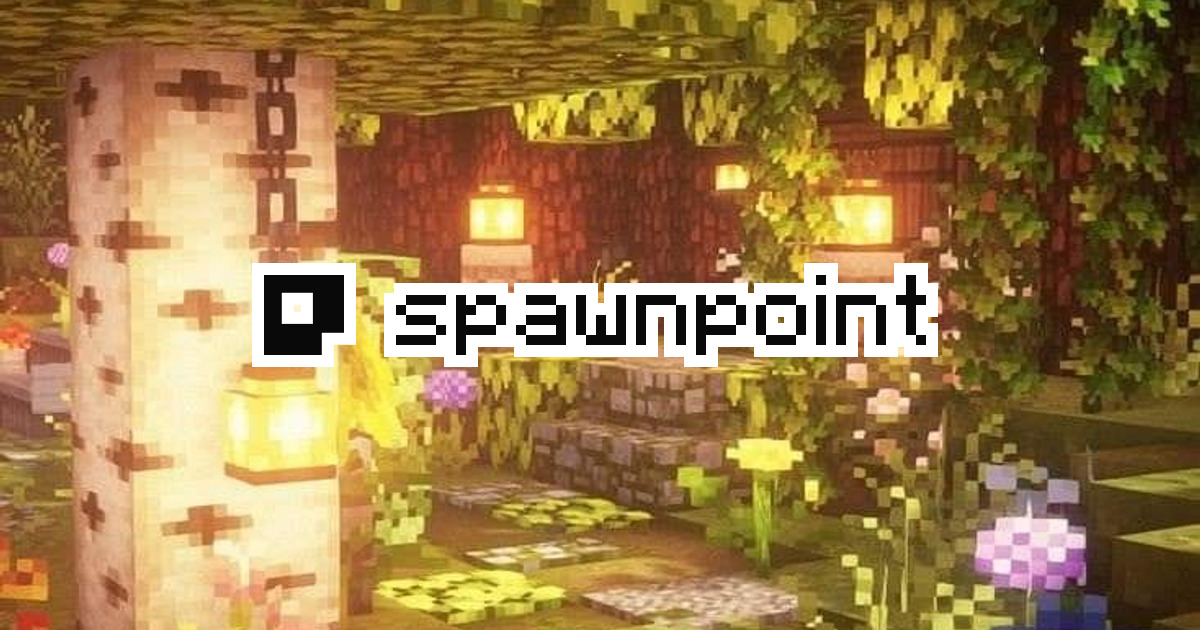
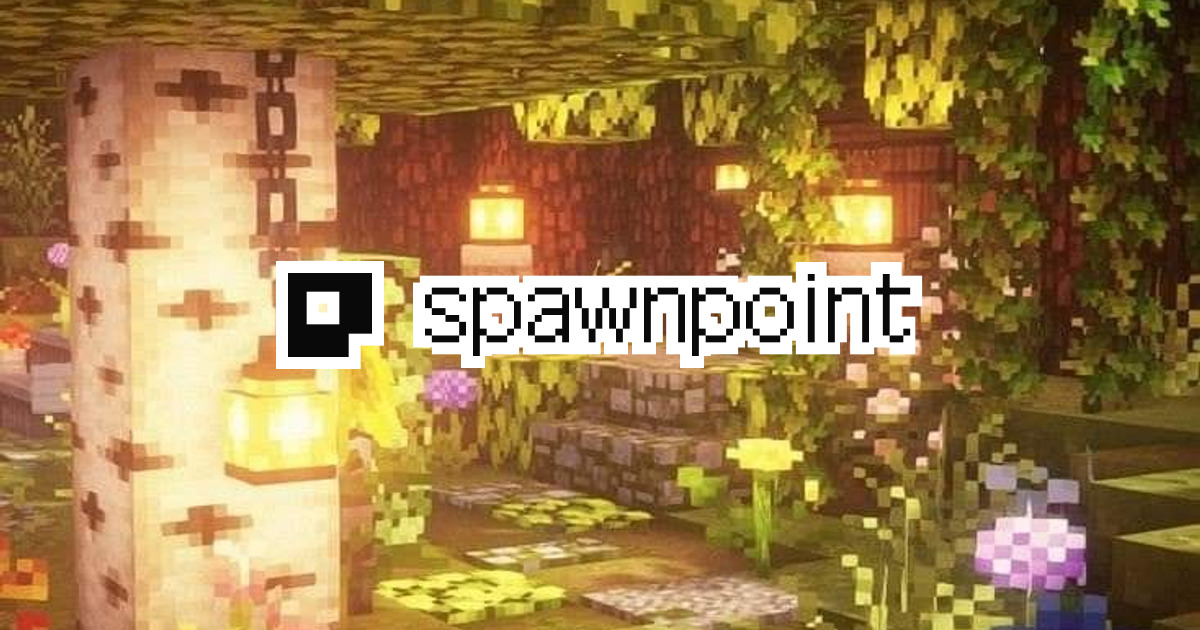
Use Galmuri11 for English share preview titles

Changed region(s): [[0.185, 0.3921, 0.8017, 0.6032]]

diff --git a/CHANGELOG.md b/CHANGELOG.md
@@ -2,6 +2,8 @@
 
 ## 2026-09-06
 
+- 링크 미리보기 이미지의 영문 글자도 갈무리11로 바꾸고 기본 Minecraft ASCII 폰트 추출을 없앴다.
+
 - 포탈·로딩 화면·게임의 한글, 영문, 숫자를 갈무리11로 통일한다. 리소스 메타데이터에 한국어를 등록해 저장된 한국어 설정이 실제로 적용되게 한다.
 - 게임 iframe 포커스를 자동으로 옮겨 키 입력이 포탈에 남는 문제를 고쳤다. 기본 Esc 나가기 버튼을 포탈 복귀로 연결하고 중복 HTML 복귀 버튼을 제거한다.
 - 해시로 고정한 26.2 WASM의 화면 전환을 포탈에 연결하고 시작 프로필 래퍼를 건너뛴다. 기본 로케이터를 유지하고 중복 HUD를 제거한다.
